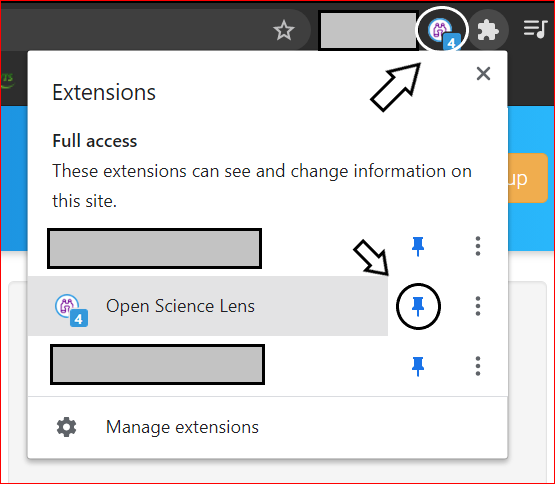
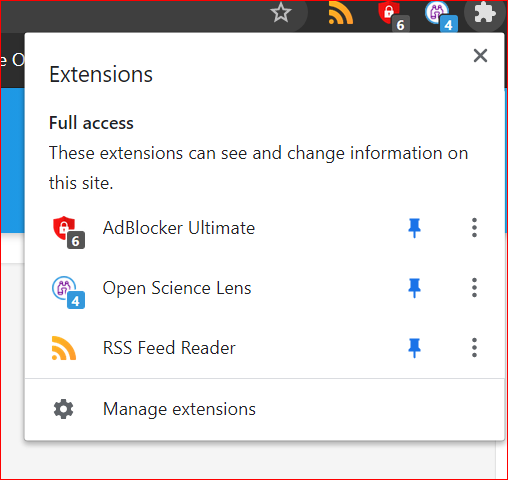
testing

diff --git a/docs/osl-plugin-user-manual.md b/docs/osl-plugin-user-manual.md
@@ -7,7 +7,7 @@
 <img src="./images-plugin/extension-button.PNG" width="10%" height="50%">
 
   * Then click on the pin to make it visible, next to your search bar.  
-<img src="./images-plugin/description.PNG" width="40%" height="50%">
+<img src="./images-plugin/extension-list.PNG" width="40%" height="50%">
 
 ## Plugin Settings:
 
